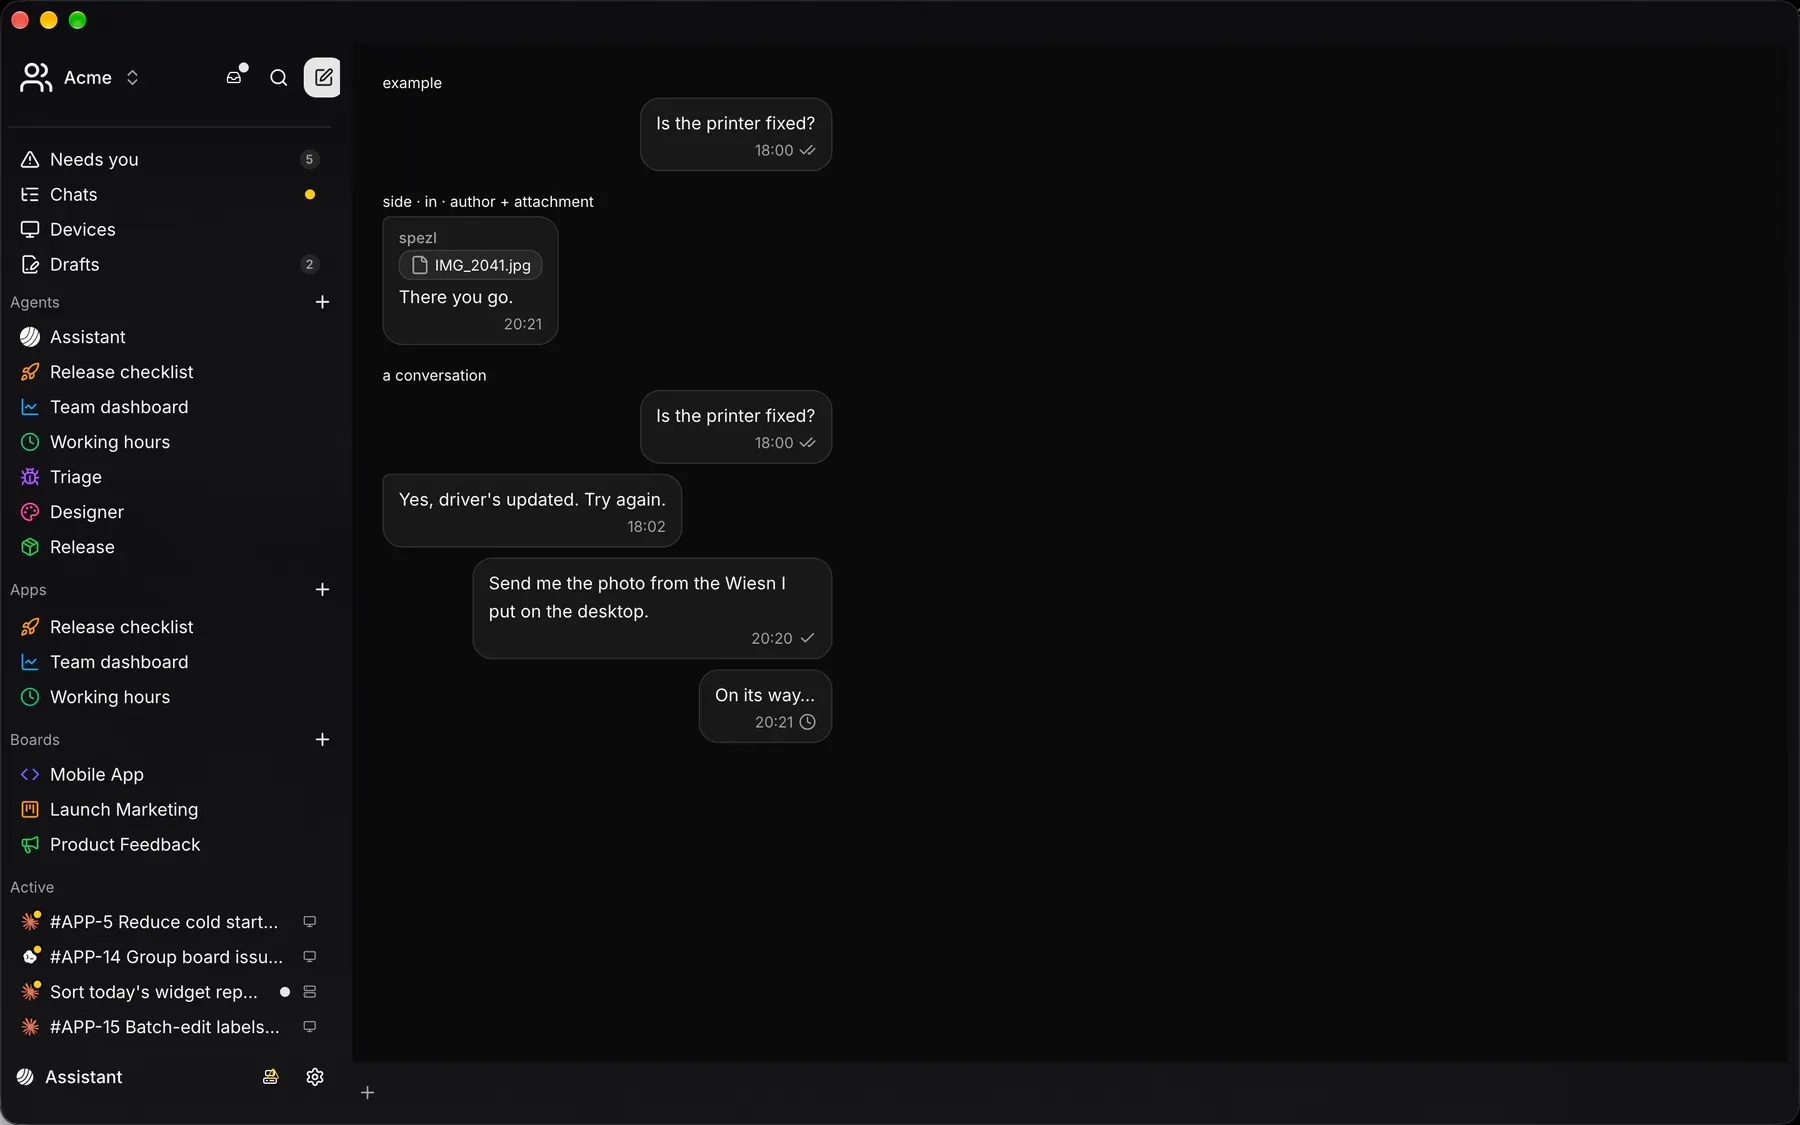
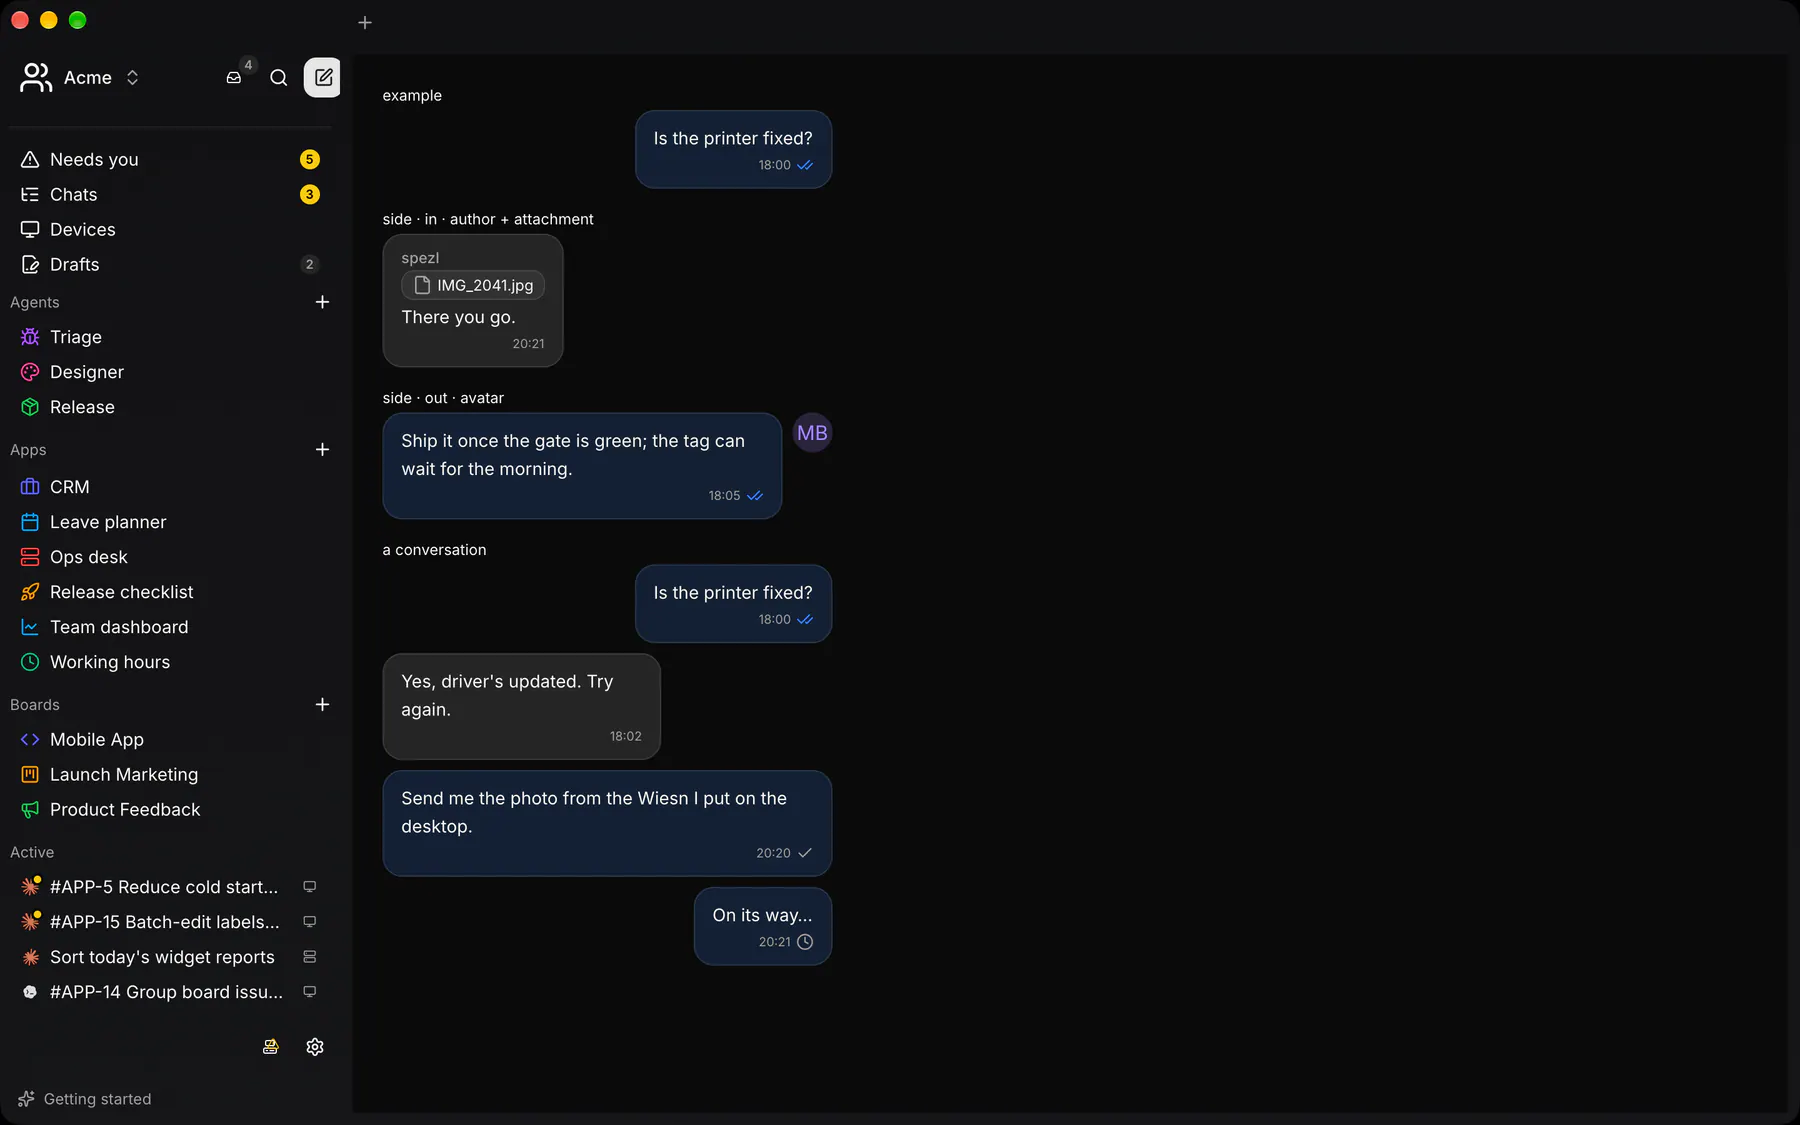
EXP-1864 desktop: the quiet notice sits under the agent's card in the chat-transcript specimen (in frame); desktop shots
Verified: cargo check (app, ui, steer, domain, eui-core); tests domain transcript_grouping, steer exp_tool_group + feed, eui-core (all), ui chat_tab_transcript / chat_transcript specimen / session_rows / transcript_rows.

diff --git a/apps/desktop/crates/ui/src/specimens/entries/chat_transcript.rs b/apps/desktop/crates/ui/src/specimens/entries/chat_transcript.rs
@@ -126,9 +126,9 @@ pub(crate) fn rows() -> Vec<(SessionChatRow, &'static str)> {
     ]
 }
 
-/// #EXP-1864 NOTICES: right under the merge line the agent's quiet turn
+/// #EXP-1864 NOTICES: right under the agent's genUI card its quiet turn
 /// (`exponential_session_self_quiet`) = THE inline marker on its own line.
-pub(crate) const NOTICE_AFTER: &str = "e2";
+pub(crate) const NOTICE_AFTER: &str = "s1";
 pub(crate) const NOTICE_TOOL: &str = "mcp__exponential__exponential_session_self_quiet";
 
 /// #FEED-237 (message-delivery.json): the viewer's own bubbles at the
@@ -212,7 +212,7 @@ pub(crate) fn render(window: &mut Window, cx: &mut App) -> Div {
         if matches!(&row, SessionChatRow::Message { id, .. } if id == OWN_AFTER) {
             rows.extend(own_rows().into_iter().map(|(id, body, time, state, stored)| paint_own(id, body, time, state, stored, &images, cx)));
         }
-        if matches!(&row, SessionChatRow::Event { id, .. } if id == NOTICE_AFTER) {
+        if matches!(&row, SessionChatRow::Surface { id, .. } if id == NOTICE_AFTER) {
             let label = domain::transcript_grouping::trace_notice(NOTICE_TOOL).unwrap_or_default();
             rows.push(crate::surface_card::transcript_marker(SharedString::from("sg-chat-notice"), label, None, cx));
         }
@@ -245,7 +245,7 @@ mod tests {
     fn the_agent_bubbles_carry_a_time_and_the_notice_resolves() {
         assert!(rows().iter().any(|(row, time)| matches!(row, SessionChatRow::Message { author, .. } if author == "agent") && !time.is_empty()));
         assert_eq!(domain::transcript_grouping::trace_notice(NOTICE_TOOL), Some("Ended turn quietly"));
-        assert!(rows().iter().any(|(row, _)| matches!(row, SessionChatRow::Event { id, .. } if id == NOTICE_AFTER)));
+        assert!(rows().iter().any(|(row, _)| matches!(row, SessionChatRow::Surface { id, .. } if id == NOTICE_AFTER)));
     }
 
     /// #FEED-237: m1 (an own, consumed row = `read`) is followed by one
